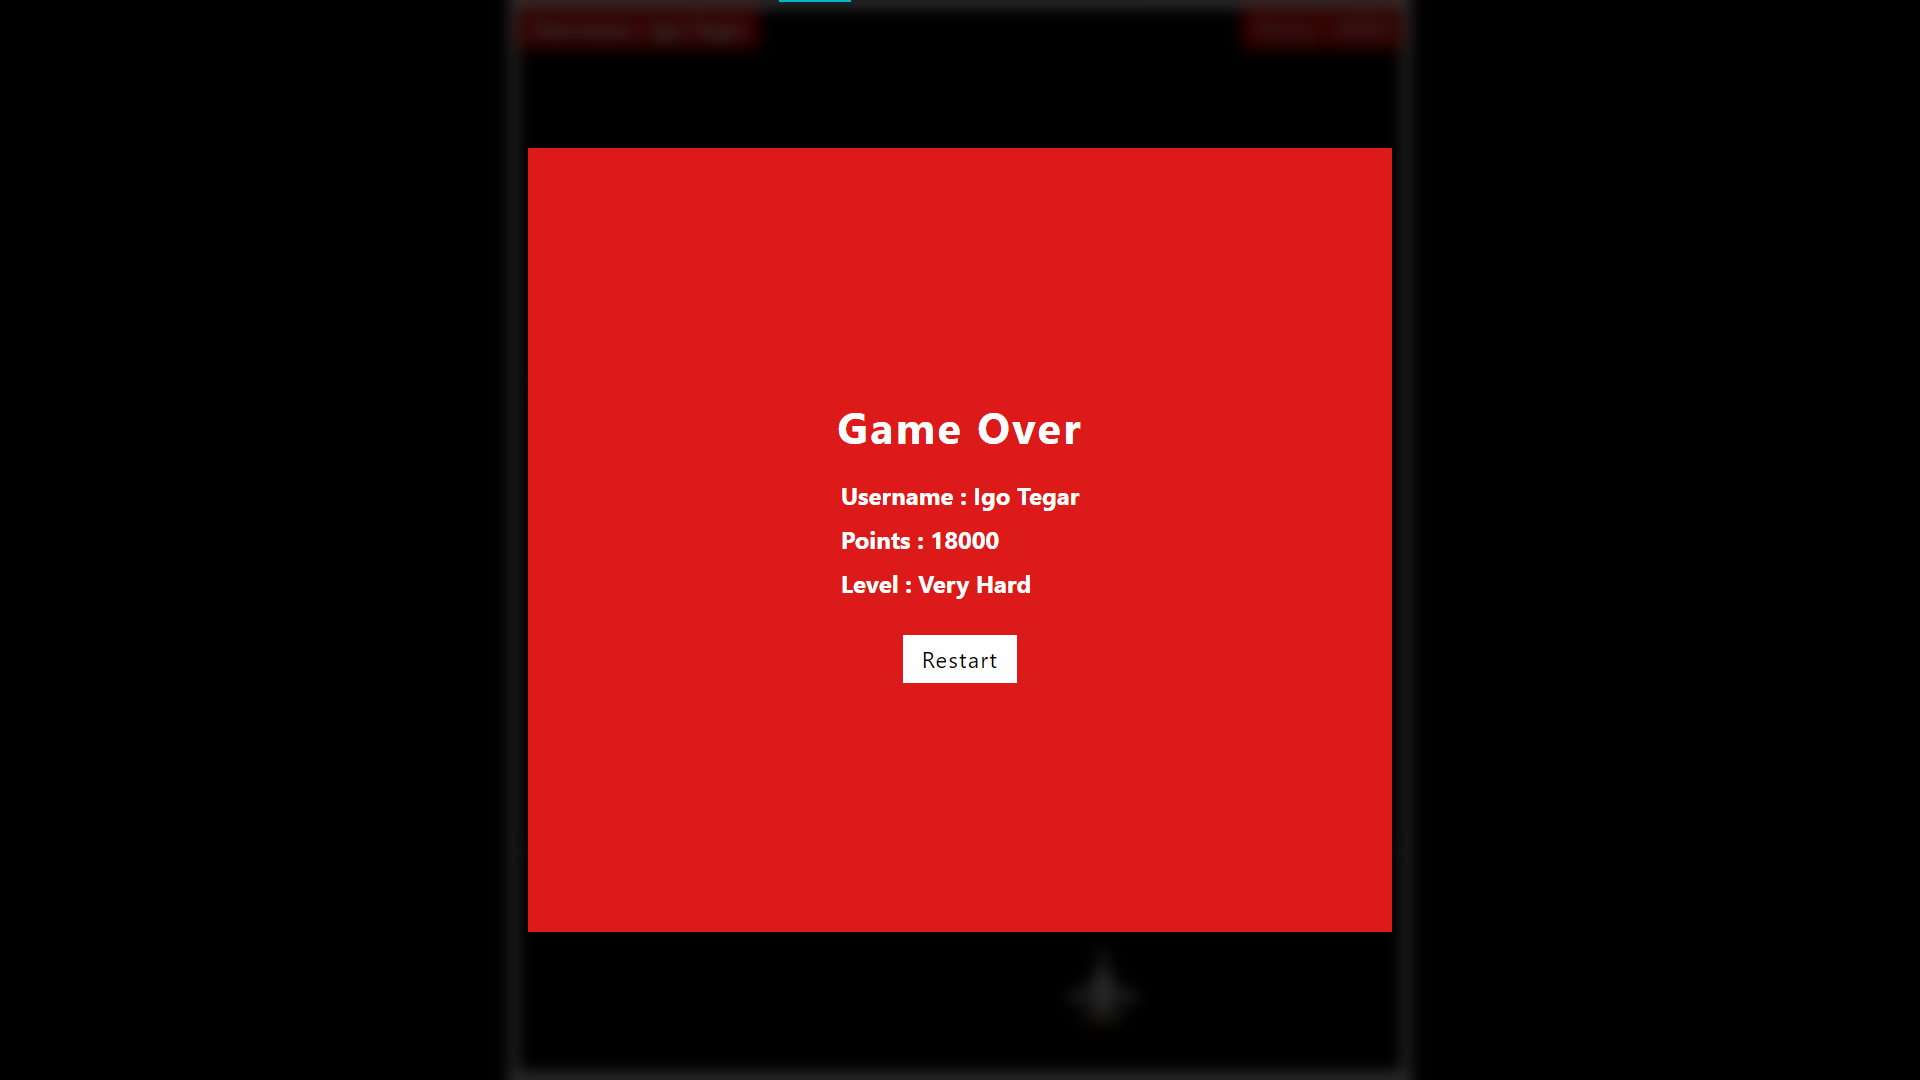
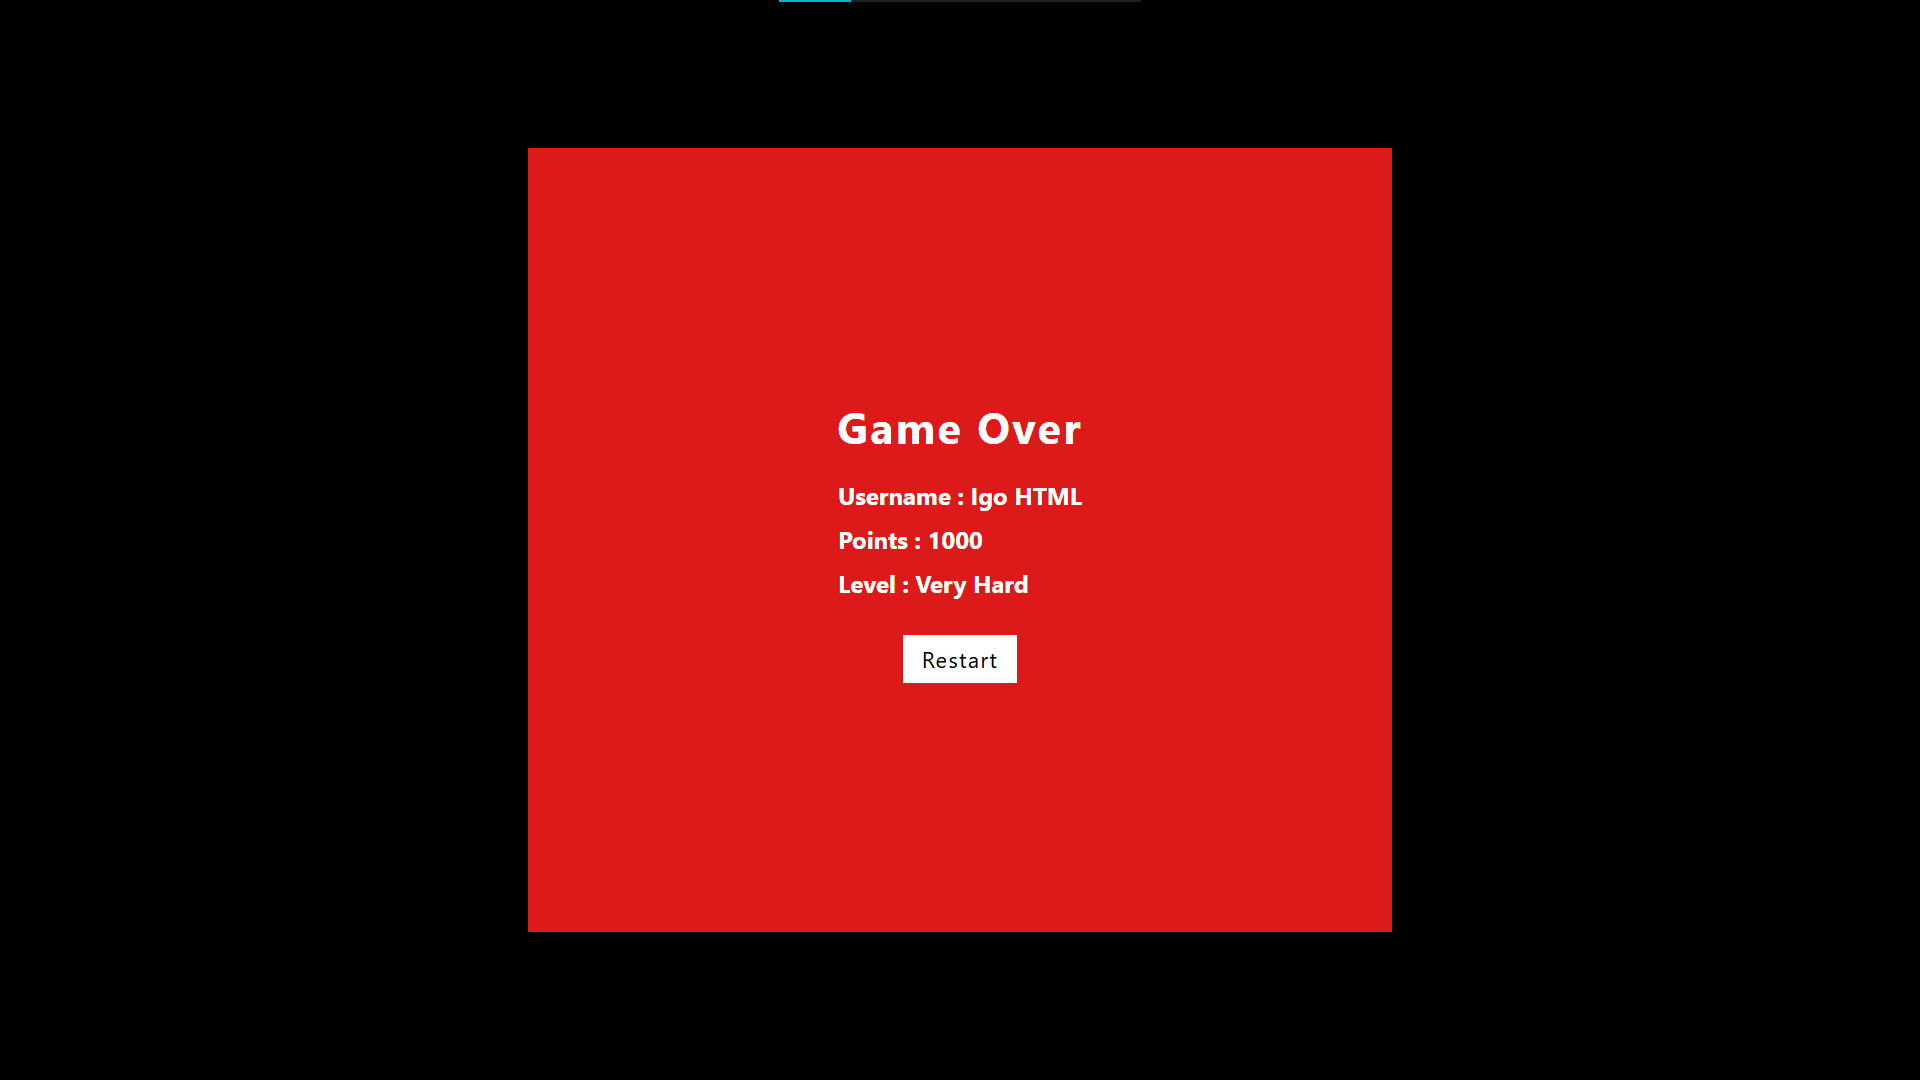
LKS SMK Web Technologies 2024 | Kabupaten Purbalingga

diff --git a/client slide/assets/js/script.js b/client slide/assets/js/script.js
@@ -2,6 +2,7 @@ const screenFirst = document.getElementById("screenFirst");
 const screenGame = document.getElementById("screenGame");
 const btnGame = document.getElementById("startGame");
 const instruction = document.getElementById("screenInstruction");
+const leaderboard = document.getElementById("screenLeaderboard");
 const username = document.getElementById("username");
 const level = document.getElementById("levelGame");
 
@@ -186,6 +187,15 @@ function closeInstruction() {
   instruction.style.display = "none";
 }
 
+function openLeaderboard() {
+  leaderboard.style.display = "flex";
+  viewLeaderboard();
+}
+
+function closeLeaderboard() {
+  leaderboard.style.display = "none";
+}
+
 document.addEventListener("keyup", (e) => {
   if (e.key == "Escape") {
     if (!isPaused) pauseGame();
@@ -201,7 +211,7 @@ function pauseGame() {
   if (player.speed == 2) {
     detailLevel = "Easy";
   } else if (player.speed == 3) {
-    detailLevel = "Medium";
+    detailLevel = "Normal";
   } else if (player.speed == 4) {
     detailLevel = "Hard";
   } else if (player.speed == 6) {
@@ -255,12 +265,14 @@ function gameOver() {
   if (player.speed == 2) {
     detailLevel = "Easy";
   } else if (player.speed == 3) {
-    detailLevel = "Medium";
+    detailLevel = "Normal";
   } else if (player.speed == 4) {
     detailLevel = "Hard";
   } else if (player.speed == 6) {
     detailLevel = "Very Hard";
   }
+
+  getLeaderboard(username.value, player.score, detailLevel);
 
   const gameOverScreen = document.createElement("section");
   gameOverScreen.id = "screenGameOver";
@@ -284,6 +296,41 @@ function gameOver() {
   gameOverScreen.addEventListener("click", quitgame);
 }
 
+function getLeaderboard(username, score, level) {
+  const leaderboard = JSON.parse(localStorage.getItem("leaderboard")) || [];
+  leaderboard.push({ username, score, level });
+  localStorage.setItem("leaderboard", JSON.stringify(leaderboard));
+}
+
+function viewLeaderboard() {
+  const leaderboard = JSON.parse(localStorage.getItem("leaderboard")) || [];
+  const leaderboardContent = document.querySelector(
+    ".screenLeaderboard .content .list .detail"
+  );
+
+  leaderboardContent.innerHTML = `
+    <ol>
+      <h4>Username</h4>
+      <p>Igo JSON</p>
+      ${leaderboard.map((u) => `<p>${u.username}</p>`).join("")}
+    </ol>
+    <ol>
+      <h4>Level</h4>
+      <p>Very Hard</p>
+      ${leaderboard.map((l) => `<p>${l.level}</p>`).join("")}
+    </ol>
+    <ol>
+      <h4>Score</h4>
+      <p>5000000</p>
+      ${leaderboard.map((s) => `<p>${s.score}</p>`).join("")}
+    </ol>
+  `;
+}
+
+function clearLeaderboard() {
+  localStorage.removeItem("leaderboard");
+}
+
 window.onload = function () {
   var mobile =
     /Android|webOS|iPhone|iPad|iPod|BlackBerry|IEMobile|Opera Mini/i.test(
@@ -299,6 +346,5 @@ window.onload = function () {
         <h2><i>Terima Kasih</i></h2>
     `;
     document.body.appendChild(device);
-  } else {
   }
 };

diff --git a/client slide/assets/css/style.css b/client slide/assets/css/style.css
@@ -84,7 +84,9 @@ body {
 
 .screenFirst .content .user .information {
   display: flex;
+  width: 100%;
   gap: 0.5rem;
+  flex-wrap: wrap;
 }
 
 .screenFirst .content .user .information button {
@@ -95,8 +97,19 @@ body {
   cursor: pointer;
 }
 
-.screenFirst .content .user .information #btninstruction {
+.screenFirst .content .user .information .inside {
+  display: flex;
+  width: 100%;
+  gap: 0.5rem;
+}
+
+.screenFirst .content .user .information .inside #btninstruction {
   background: #fff000;
+  color: #000;
+}
+
+.screenFirst .content .user .information .inside #btnleaderboard {
+  background: #00ff4c;
   color: #000;
 }
 
@@ -113,7 +126,7 @@ body {
   top: 0;
   left: 0;
   bottom: 0;
-  background: rgba(0, 0, 0, 0.8);
+  background: rgba(0, 0, 0, 1);
   width: 100%;
   backdrop-filter: blur(5px);
   height: 100dvh;
@@ -155,6 +168,84 @@ body {
 
 .screenInstruction .list ol li {
   list-style: circle;
+  margin: 0 1rem;
+}
+
+/* leaderboard */
+.screenLeaderboard {
+  position: absolute;
+  top: 0;
+  left: 0;
+  bottom: 0;
+  background: rgba(0, 0, 0, 1);
+  width: 100%;
+  backdrop-filter: blur(5px);
+  height: 100dvh;
+  padding: 5%;
+  display: none;
+  flex-direction: column;
+  align-items: center;
+  justify-content: center;
+  z-index: 5;
+}
+
+.screenLeaderboard .content {
+  width: 50%;
+  height: 90%;
+  padding: 2rem;
+  overflow: hidden;
+  border: 5px solid #fff;
+}
+
+.screenLeaderboard button {
+  display: flex;
+  align-items: center;
+  justify-content: center;
+  width: 30px;
+  height: 30px;
+  background: #ff0000;
+  margin-bottom: 1rem;
+  font-weight: 600;
+  border: none;
+  font-size: 1.5rem;
+  padding-bottom: 0.3rem;
+  cursor: pointer;
+  float: right;
+}
+
+.screenLeaderboard .list h3 {
+  font-size: 1.5rem;
+  margin: 0 0 1.5rem;
+}
+
+.screenLeaderboard .list .detail {
+  display: flex;
+  flex-wrap: nowrap;
+  width: 100%;
+  height: 300px;
+  justify-content: space-between;
+  overflow-y: auto;
+  padding-right: 1rem;
+}
+
+.screenLeaderboard .list .detail::-webkit-scrollbar {
+  width: 10px;
+}
+
+.screenLeaderboard .list .detail::-webkit-scrollbar-track {
+  background: #fff;
+}
+
+.screenLeaderboard .list .detail::-webkit-scrollbar-thumb {
+  background: #dd1a1a;
+}
+
+.screenLeaderboard .list .detail h4 {
+  margin-bottom: 1rem;
+}
+
+.screenLeaderboard .list .detail ol li {
+  list-style: none;
   margin: 0 1rem;
 }
 
@@ -244,7 +335,7 @@ body {
   top: 0;
   left: 0;
   bottom: 0;
-  background: rgba(0, 0, 0, 0.8);
+  background: rgba(0, 0, 0, 1);
   width: 100%;
   backdrop-filter: blur(5px);
   height: 100dvh;
@@ -305,7 +396,7 @@ body {
   top: 0;
   left: 0;
   bottom: 0;
-  background: rgba(0, 0, 0, 0.8);
+  background: rgba(0, 0, 0, 1);
   width: 100%;
   backdrop-filter: blur(5px);
   height: 100dvh;

diff --git a/client slide/index.html b/client slide/index.html
@@ -23,7 +23,7 @@
             <select id="levelGame">
               <option value="0">Pilih level</option>
               <option value="1">Easy</option>
-              <option value="2">Medium</option>
+              <option value="2">Normal</option>
               <option value="3">Hard</option>
               <option value="4">Very Hard</option>
             </select>
@@ -34,14 +34,23 @@
               placeholder="Masukkan username anda"
             />
             <div class="information">
+              <div class="inside">
+                <button
+                  type="button"
+                  id="btninstruction"
+                  onclick="openInstruction()"
+                >
+                  Instruksi
+                </button>
+                <button
+                  type="button"
+                  id="btnleaderboard"
+                  onclick="openLeaderboard()"
+                >
+                  Leaderboard
+                </button>
+              </div>
               <button disabled type="button" id="startGame">Mulai</button>
-              <button
-                type="button"
-                id="btninstruction"
-                onclick="openInstruction()"
-              >
-                Instruksi
-              </button>
             </div>
           </div>
         </main>
@@ -67,6 +76,16 @@
             <li>Tekan Escape untuk pause game</li>
             <li>Enjoy the game!</li>
           </ol>
+        </div>
+      </div>
+    </section>
+
+    <section class="screenLeaderboard hide" id="screenLeaderboard">
+      <div class="content">
+        <button type="button" onclick="closeLeaderboard()">&times;</button>
+        <div class="list">
+          <h3>Leaderboard | Space Shooter</h3>
+          <div class="detail"></div>
         </div>
       </div>
     </section>
